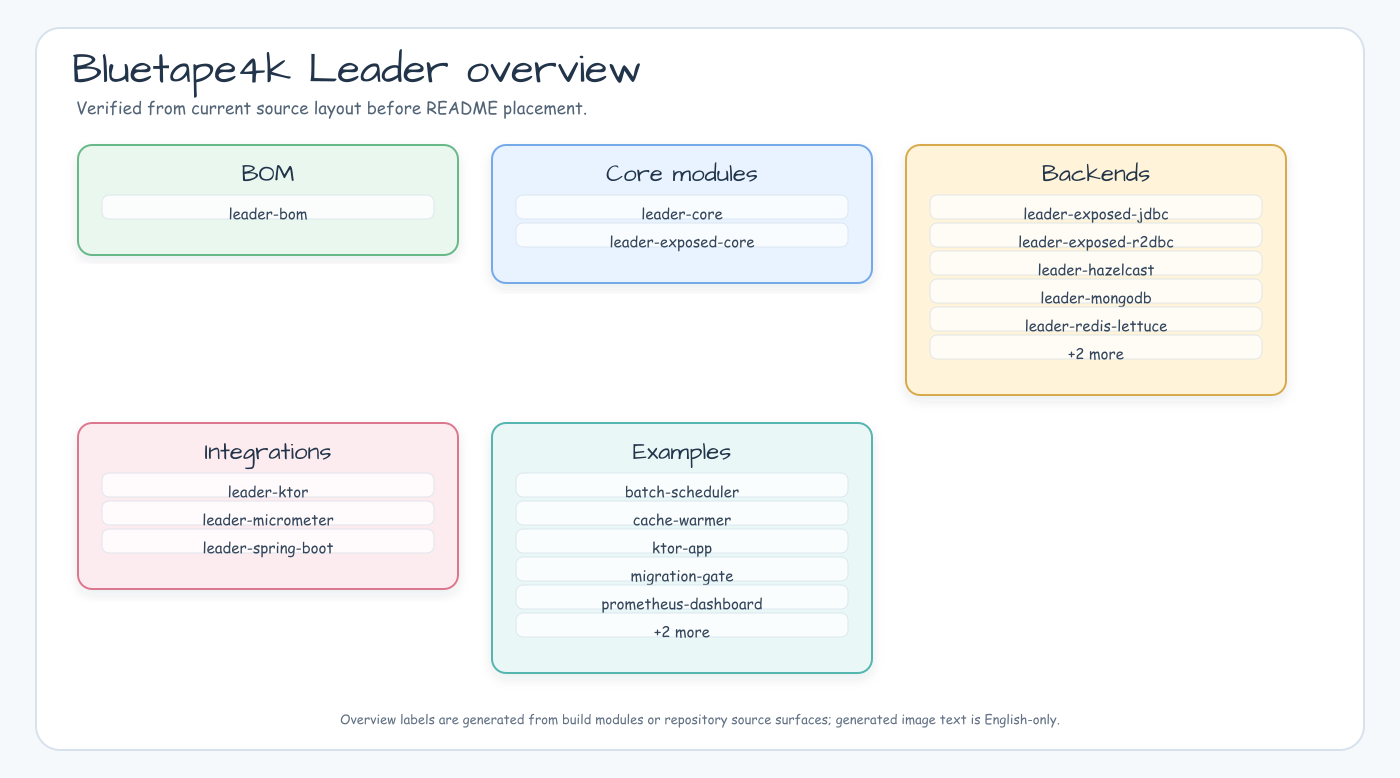
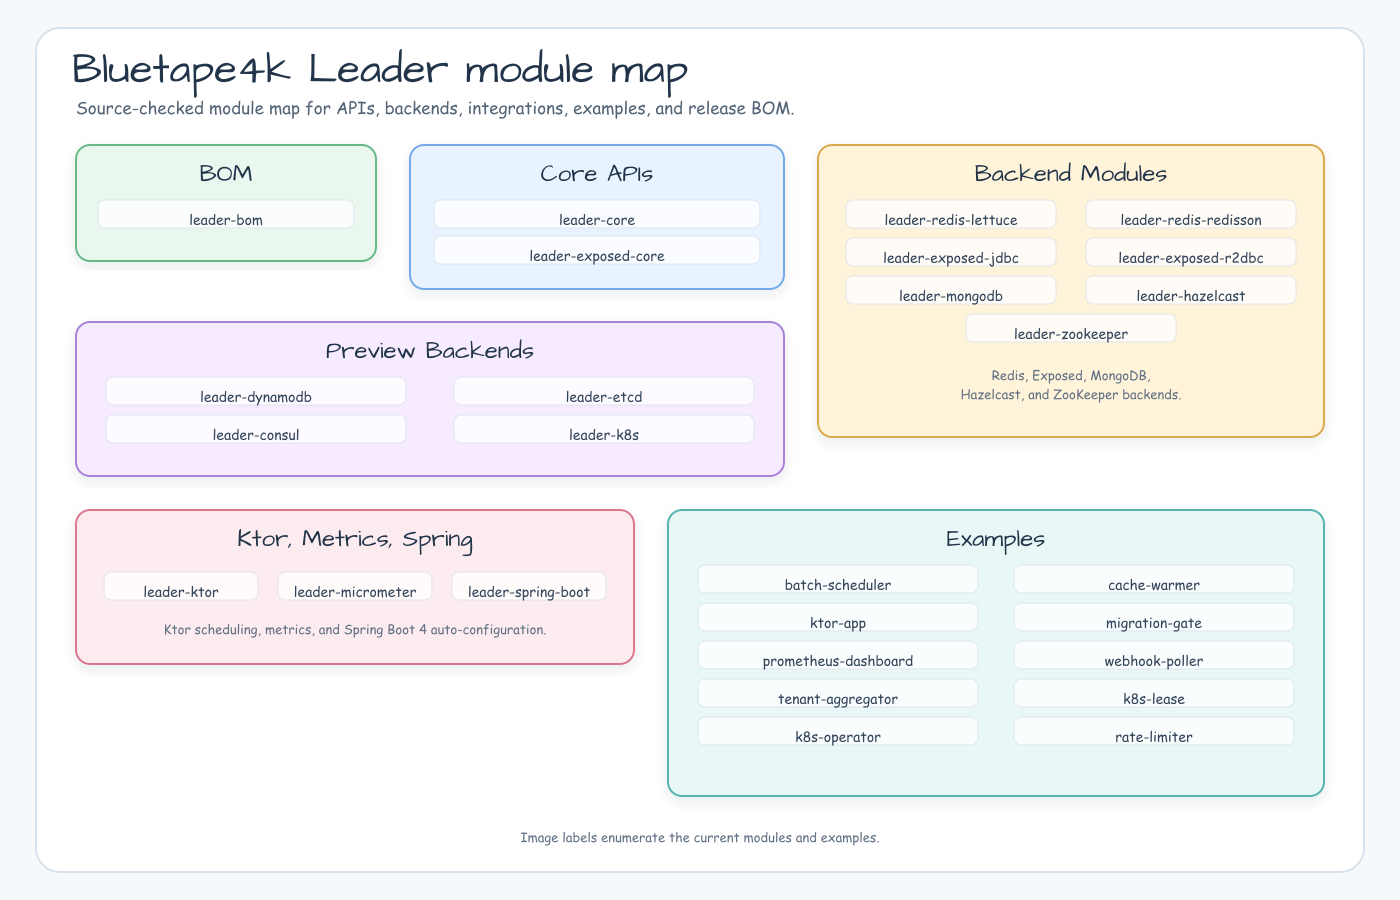
docs: refresh leader README overview diagram
Refresh the root README overview asset so milestone 0.2.2 preview backends and examples are explicit instead of hidden behind stale collapsed placeholders.

Constraint: issue #377 requires matching SVG and PNG README diagram assets with English-only image text.

Rejected: repository-wide Mermaid-history regeneration | it mismatched old Mermaid blocks to current README links and rewrote the single-leader sequence diagram from the group sequence source.

Confidence: high

Scope-risk: narrow

Directive: verify historical Mermaid source-to-image mapping before accepting generated README diagram output.

Tested: xmllint --noout docs/images/readme-diagrams/*.svg; git diff --check; rg -n 'docs/images/readme-diagrams/.*\.png' README.md README.ko.md; rsvg-convert root-readme-overview-01.svg; sips root-readme-overview-01.png; visual inspection; Claude advisor P0=0/P1=0.

Not-tested: full global diagram audit is not clean because unrelated existing class/K8s/Spring diagram findings remain outside the changed root overview asset.

diff --git a/docs/lessons/2026-05-25-issue-377-readme-diagram-refresh.md b/docs/lessons/2026-05-25-issue-377-readme-diagram-refresh.md
@@ -1,0 +1,50 @@
+# Issue 377 README Diagram Refresh
+
+## Context
+
+Milestone 0.2.2 needed README-facing diagrams refreshed from the current
+`bluetape4k-leader` module layout. The root overview diagram still collapsed
+new preview backends behind a `+2 more` placeholder and did not show the current
+DynamoDB, etcd, Consul, and Kubernetes Lease modules explicitly.
+
+## Decision
+
+Refresh only the root README overview asset and preserve existing README image
+paths. The repository-wide Mermaid-history generator was not used for the final
+asset because it mismatched old Mermaid blocks to current README image links and
+rewrote the single-leader sequence asset with the group-leader sequence source.
+
+## Outcome
+
+`root-readme-overview-01.svg` now enumerates the current module map:
+
+- BOM and core APIs.
+- Stable backend modules.
+- Preview backends: DynamoDB, etcd, Consul, and Kubernetes Lease.
+- Ktor, Micrometer, and Spring Boot integration modules.
+- Current examples from the `examples/` directory.
+
+The matching PNG was regenerated from the SVG with `rsvg-convert`.
+
+## Verification
+
+- `xmllint --noout docs/images/readme-diagrams/*.svg`
+- `git diff --check`
+- `rg -n 'docs/images/readme-diagrams/.*\.png' README.md README.ko.md`
+- `sips -g pixelWidth -g pixelHeight docs/images/readme-diagrams/root-readme-overview-01.png`
+- Visual inspection of `root-readme-overview-01.png`: no clipped labels or stale `+ more` placeholders.
+- Worktree audit artifacts:
+  - `.omx/artifacts/issue-377-audit-readme-diagrams-worktree.log`
+  - `.omx/artifacts/issue-377-audit-readme-diagram-quality-worktree.log`
+
+The global audit scripts still exit with existing findings in unrelated
+non-root diagrams, such as class-diagram `interface` labels and pre-existing
+K8s/Spring text issues. The changed root overview asset has no audit findings
+in those worktree artifacts.
+
+## Future Guidance
+
+When regenerating README diagrams from historical Mermaid blocks, first verify
+that each Mermaid source maps to the same current image link. If the count or
+order does not match, stop and manually regenerate the affected asset instead
+of accepting generator output.